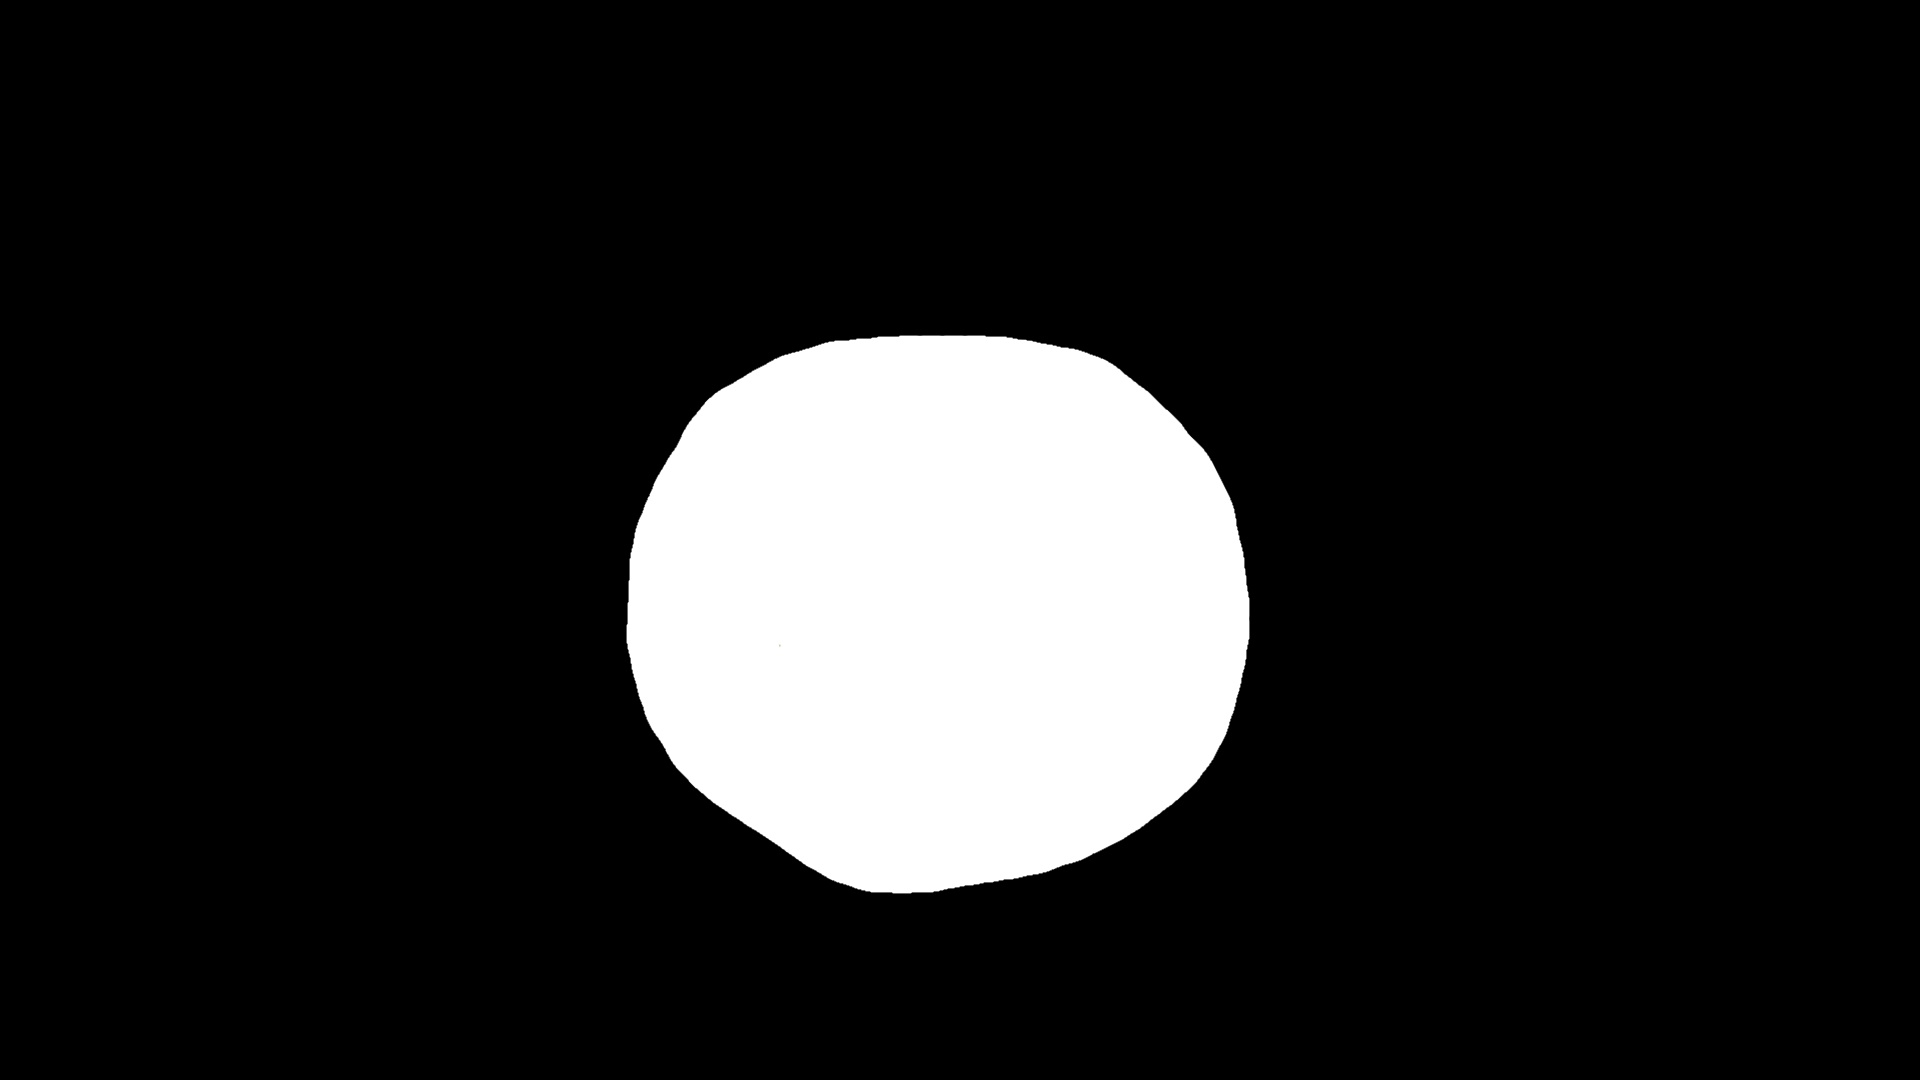
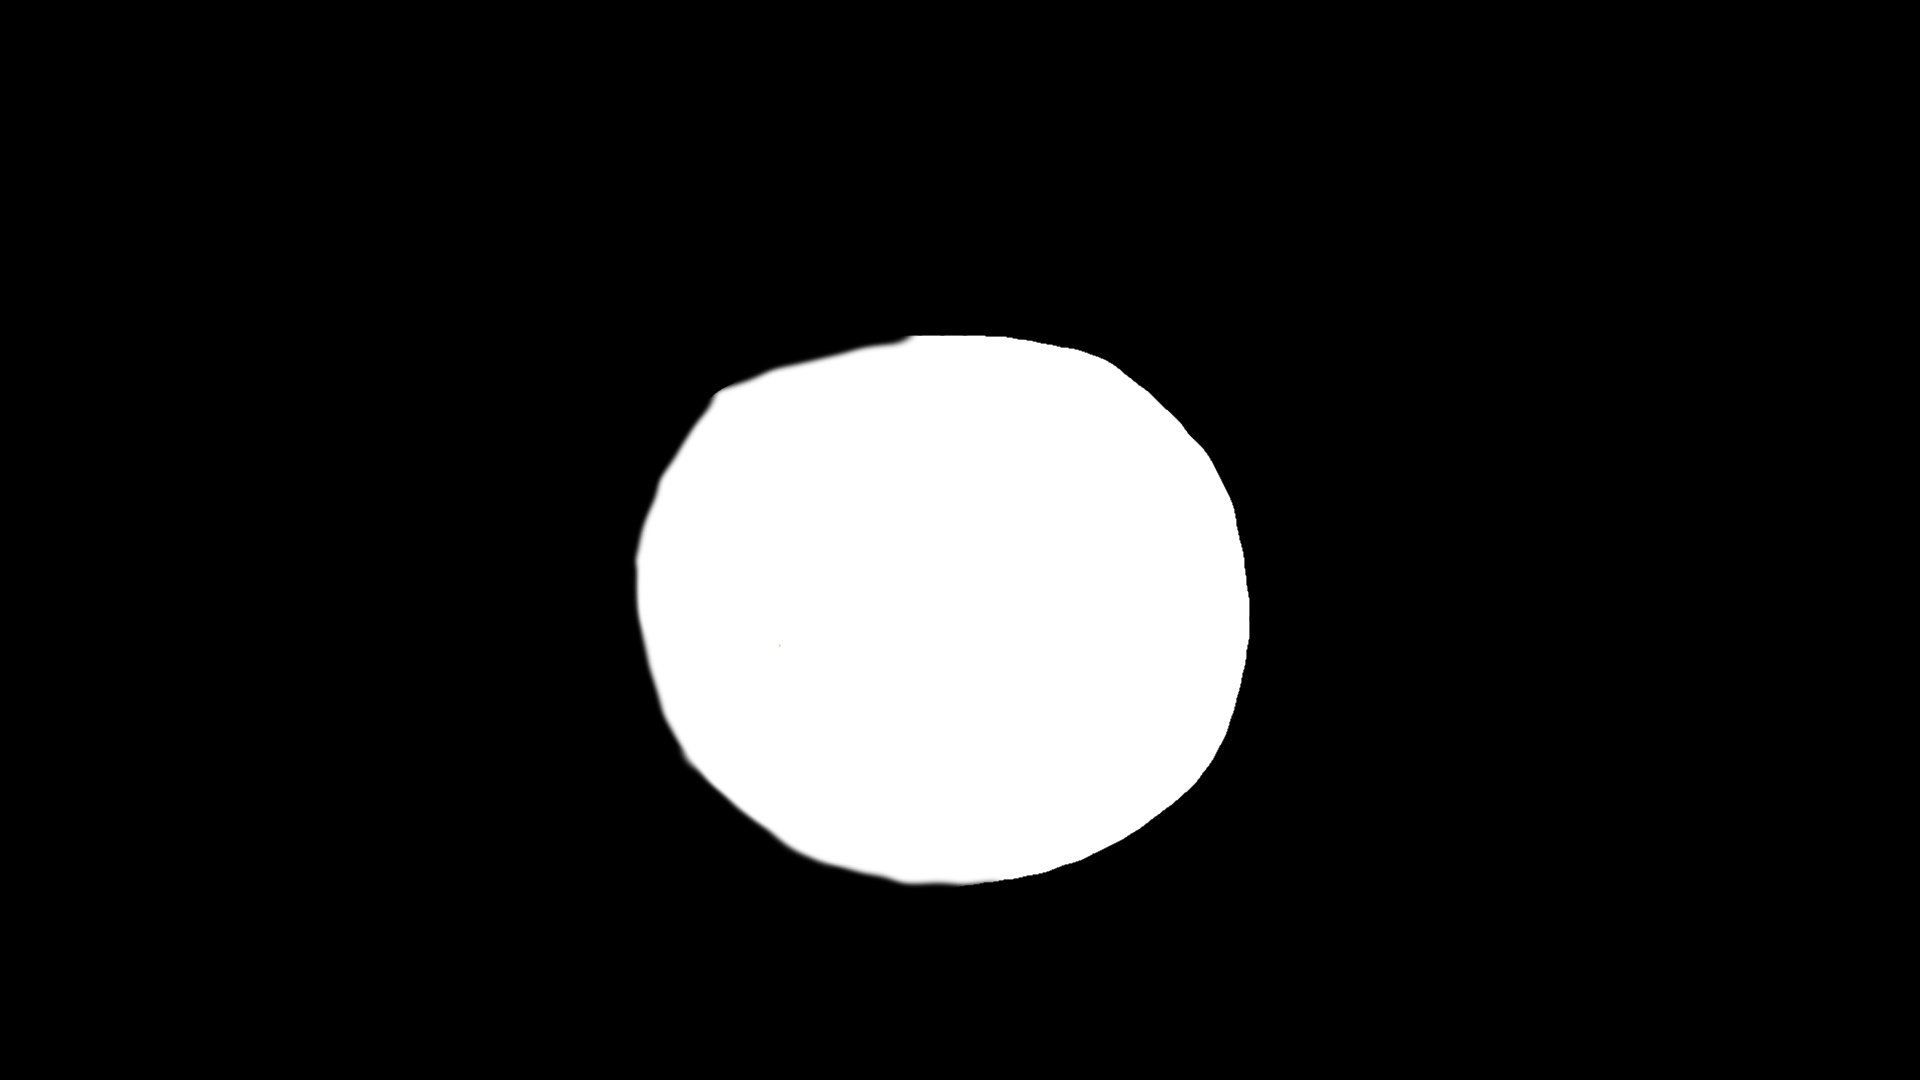
Cleaned up mask

diff --git a/sketch.js b/sketch.js
@@ -3,10 +3,10 @@ let maskImg=null;
 let renderCounter=0;
 
 // change these three lines as appropiate
-//let sourceFile = "eyes/hazel-eye.jpg";
-//let maskFile   = "eyes/iris-masks/hazel-eye-iris-mask.jpg";
-let sourceFile = "eyes/face.jpg";
-let maskFile   = "eyes/iris-masks/face-mask.png";
+let sourceFile = "eyes/hazel-eye.jpg";
+let maskFile   = "eyes/iris-masks/hazel-eye-iris-mask.jpg";
+//let sourceFile = "eyes/face.jpg";
+//let maskFile   = "eyes/iris-masks/face-mask.png";
 
 let outputFile = "output_red_face.png";
 
@@ -60,7 +60,7 @@ function draw () {
     console.log("Done!")
     noLoop();
     // uncomment this to save the result
-    saveArtworkImage(outputFile);
+    //saveArtworkImage(outputFile);
   }
 }
 
